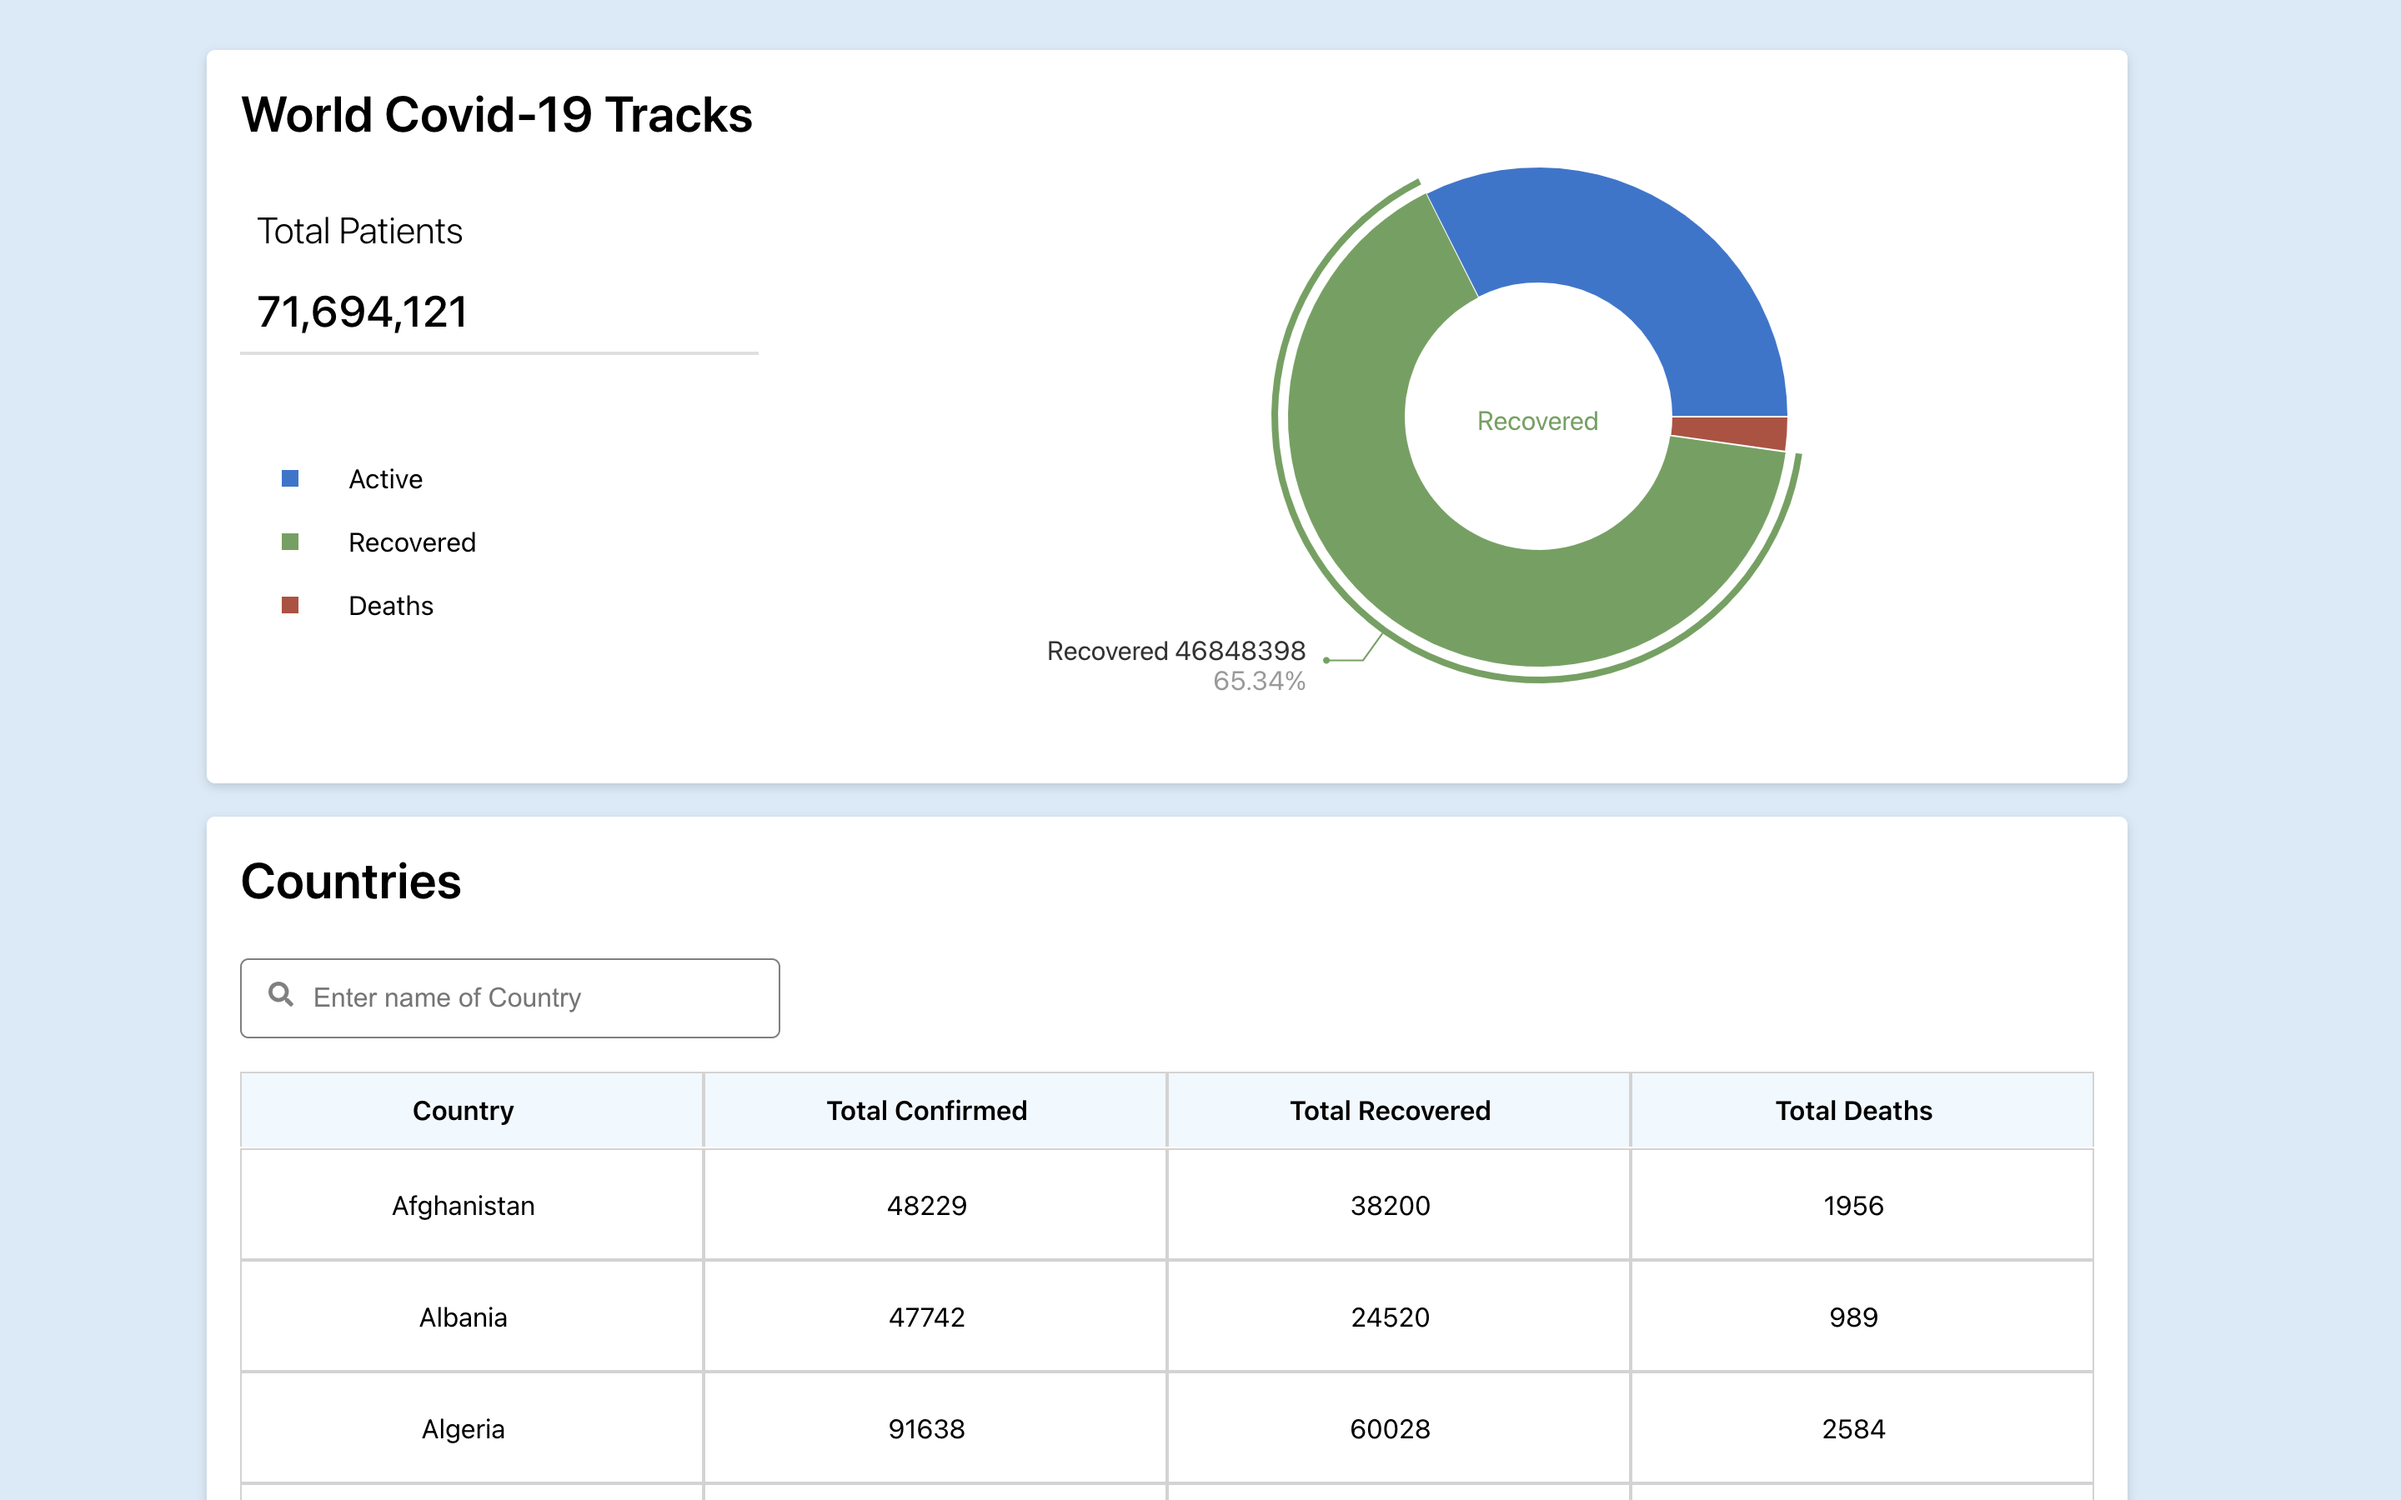
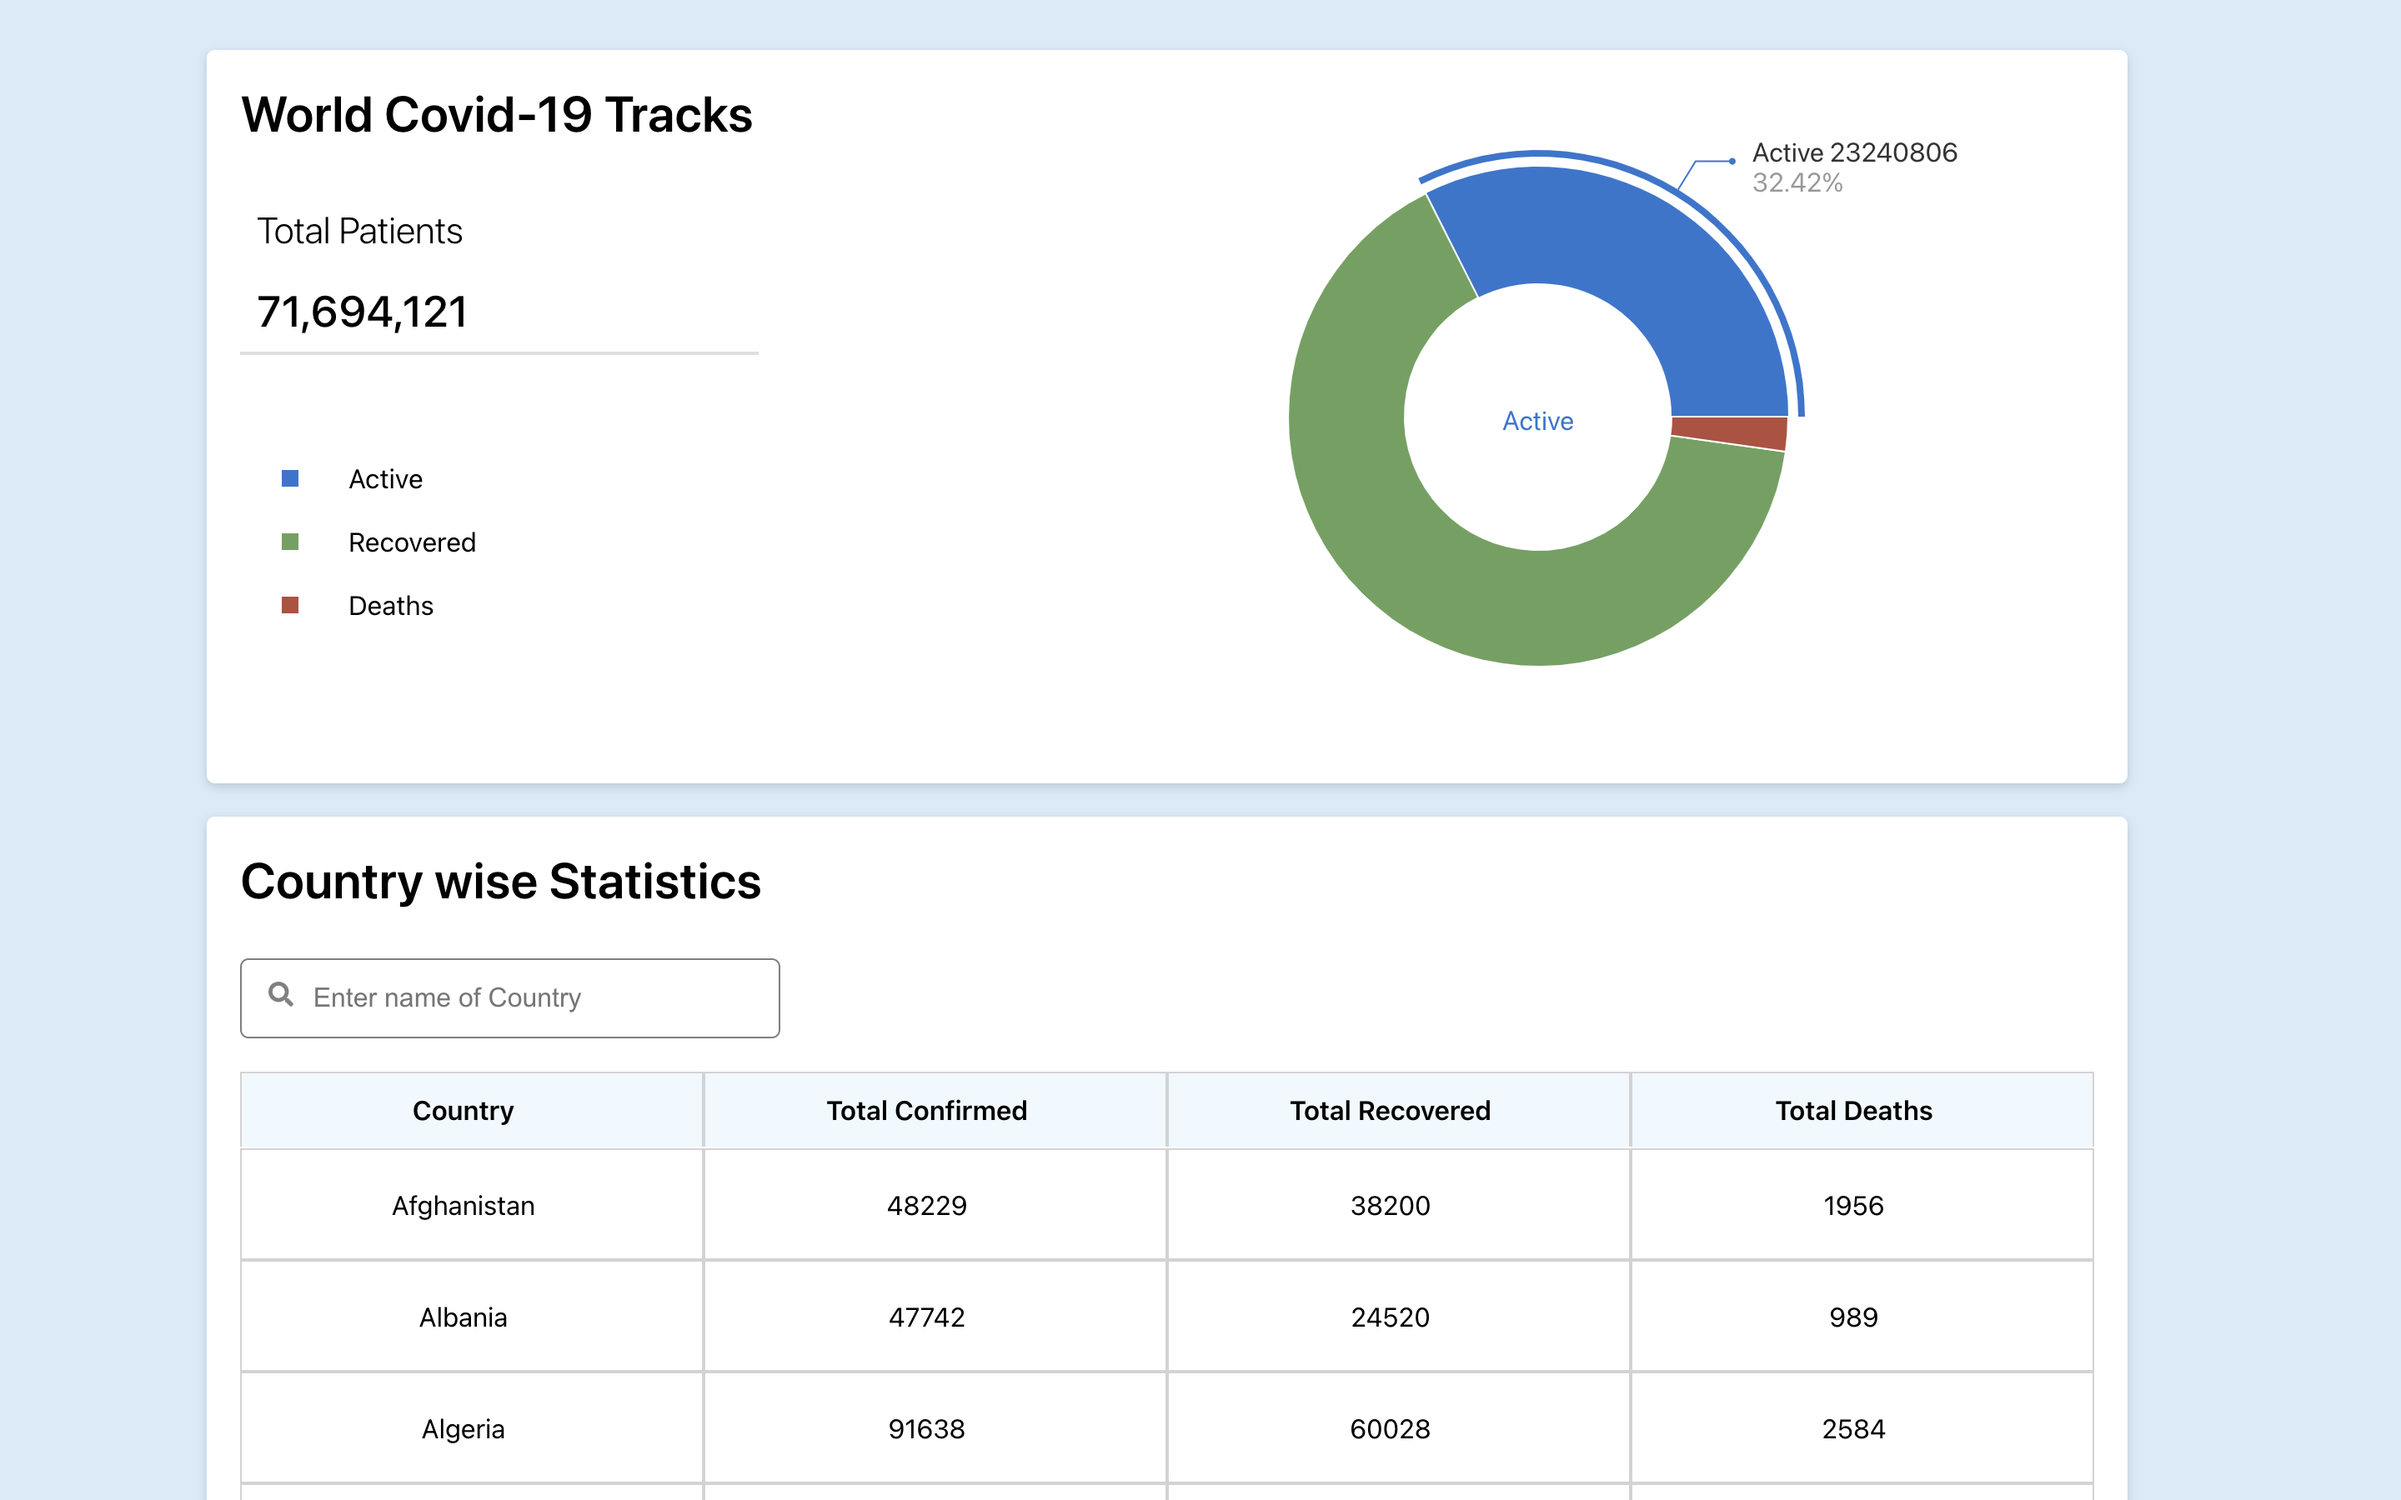
minor image changes

diff --git a/src/views/layouts/genericTableWithSearch/genericTableWithSearch.view.jsx b/src/views/layouts/genericTableWithSearch/genericTableWithSearch.view.jsx
@@ -10,7 +10,7 @@ export const genericTableWithSearch = ( props ) => {
 
     return (
         <div className = 'ui-generic-table-with-search-container'>
-            <div className = 'ui-generic-table-with-search-container__heading'> Countries </div>
+            <div className = 'ui-generic-table-with-search-container__heading'> Country wise Statistics </div>
 
             <InputField type='text' placeholder="Enter name of Country" iconPosition = 'left' onChange={ ( value ) => handleSearch( value ) } icon={FaSearch} renderIcon = { () => <FaSearch size={15} color='gray' /> }></InputField>
 
